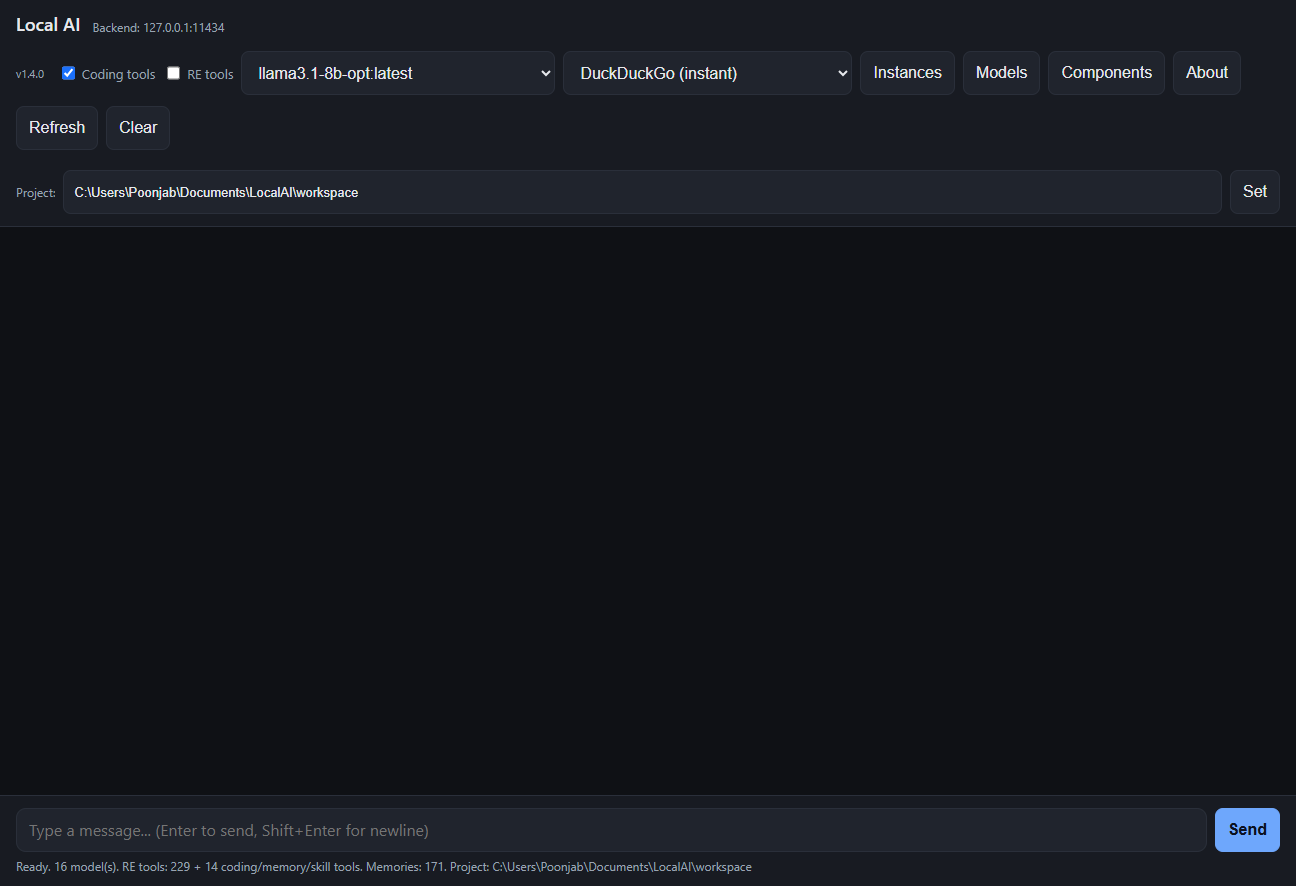
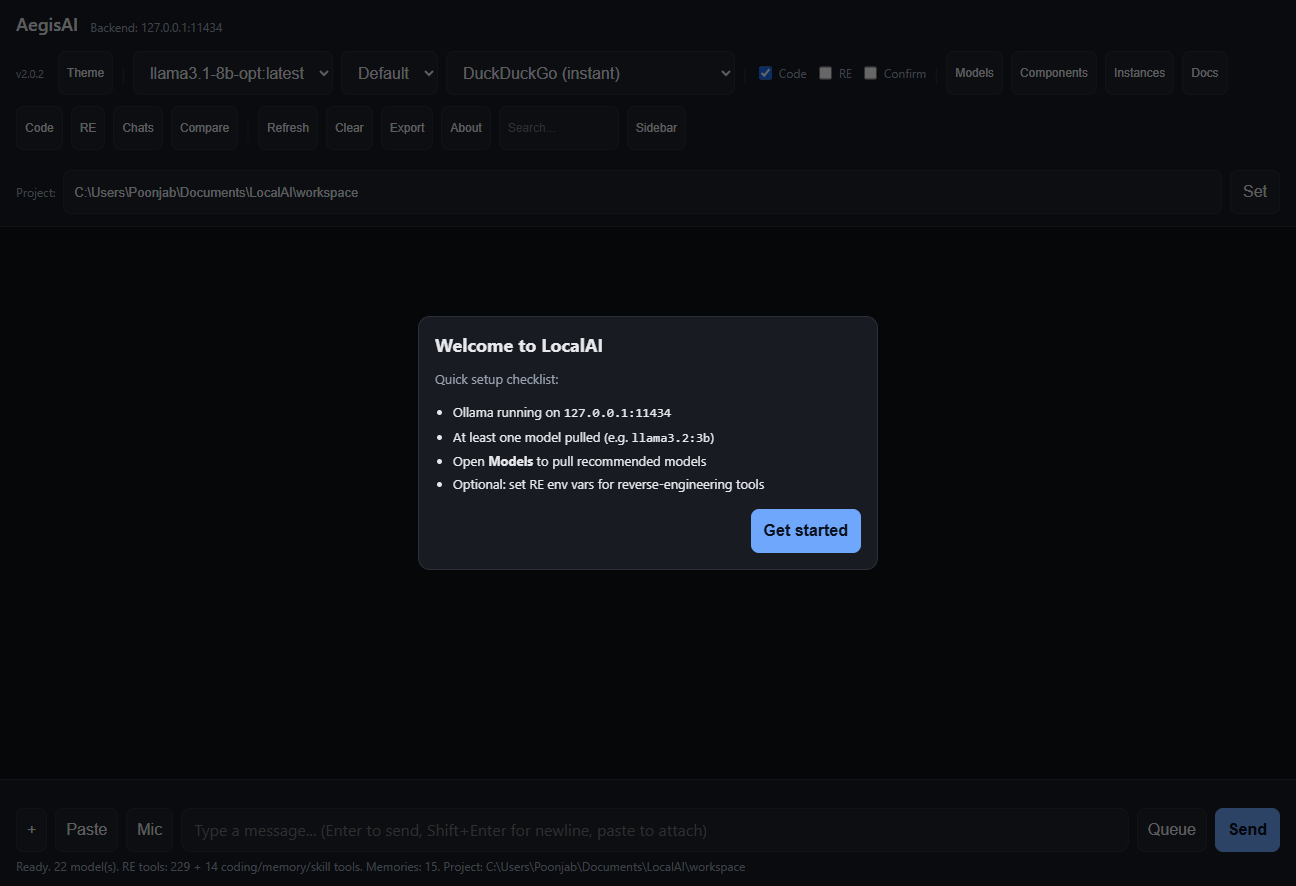
Update screenshots; add import button to scan results

diff --git a/server.js b/server.js
@@ -2207,15 +2207,22 @@ const server = http.createServer(async (req, res) => {
       if (!modelPath || !name) { json(res, 400, { ok: false, message: 'path and name required' }); return; }
       const fs = require('fs');
       const os = require('os');
+      // Sanitize model name: lowercase, only a-z0-9._-
+      const safeName = name.toLowerCase().trim().replace(/[^a-z0-9._-]/g, '-').replace(/^-+|-+$/g, '');
+      if (!safeName || !/^[a-z0-9]/.test(safeName)) {
+        json(res, 400, { ok: false, message: 'Invalid model name. Use lowercase letters, numbers, dots, hyphens, underscores.' });
+        return;
+      }
       const tmpModelfile = path.join(os.tmpdir(), 'Modelfile_' + Date.now());
-      fs.writeFileSync(tmpModelfile, 'FROM ' + modelPath + '\\n');
+      // Quote the path in case it has spaces
+      fs.writeFileSync(tmpModelfile, 'FROM "' + modelPath + '"\\n');
       const { exec } = require('child_process');
       const ollamaBin = resolveOllamaBin();
       const result = await new Promise((resolve) => {
-        exec(JSON.stringify(ollamaBin) + ' create ' + JSON.stringify(name) + ' -f "' + tmpModelfile + '"', { timeout: 600000, maxBuffer: 10 * 1024 * 1024 }, (err, stdout, stderr) => {
+        exec(JSON.stringify(ollamaBin) + ' create ' + JSON.stringify(safeName) + ' -f "' + tmpModelfile + '"', { timeout: 600000, maxBuffer: 10 * 1024 * 1024 }, (err, stdout, stderr) => {
           try { fs.unlinkSync(tmpModelfile); } catch (_) {}
           if (err) resolve({ ok: false, message: (stderr || err.message || '').slice(0, 500) });
-          else resolve({ ok: true, message: (stdout || stderr || 'done').trim().slice(0, 500) });
+          else resolve({ ok: true, message: (stdout || stderr || 'done').trim().slice(0, 500), name: safeName });
         });
       });
       json(res, 200, result);

diff --git a/public/index.html b/public/index.html
@@ -135,7 +135,7 @@
     <span id="host" class="status"></span>
   </div>
   <div class="controls">
-    <span id="versionBadge" style="font-size:11px;color:var(--muted);margin-right:6px;align-self:center;">v2.0.2</span>
+    <span id="versionBadge" style="font-size:11px;color:var(--muted);margin-right:6px;align-self:center;">v2.0.3</span>
     <button id="themeBtn" title="Toggle theme" style="padding:4px 8px;font-size:12px;">Theme</button>
     <span style="color:var(--border);">|</span>
     <select id="model" title="Model" style="max-width:200px;"></select>
@@ -212,7 +212,7 @@
     <button class="close-btn" id="aboutClose" onclick="document.getElementById('aboutBackdrop').classList.remove('open')">&times;</button>
     <h2>AegisAI � About</h2>
     <div style="display:flex;flex-direction:column;gap:8px;font-size:14px;">
-      <div><b>Version:</b> <span id="aboutVersion">v2.0.2</span></div>
+      <div><b>Version:</b> <span id="aboutVersion">v2.0.3</span></div>
       <div><b>Backend:</b> Ollama at 127.0.0.1:11434</div>
       <div><b>Web UI:</b> http://127.0.0.1:8080</div>
       <div><b>Models:</b> <span id="aboutModels">�</span></div>

diff --git a/README.md b/README.md
@@ -164,6 +164,8 @@ Then re-run `install.vbs`.
 
 ![Models dialog](docs/screenshots/models.png)
 
+![Components dialog](docs/screenshots/components.png)
+
 ![About dialog](docs/screenshots/about.png)
 
 ## Security / Auth
